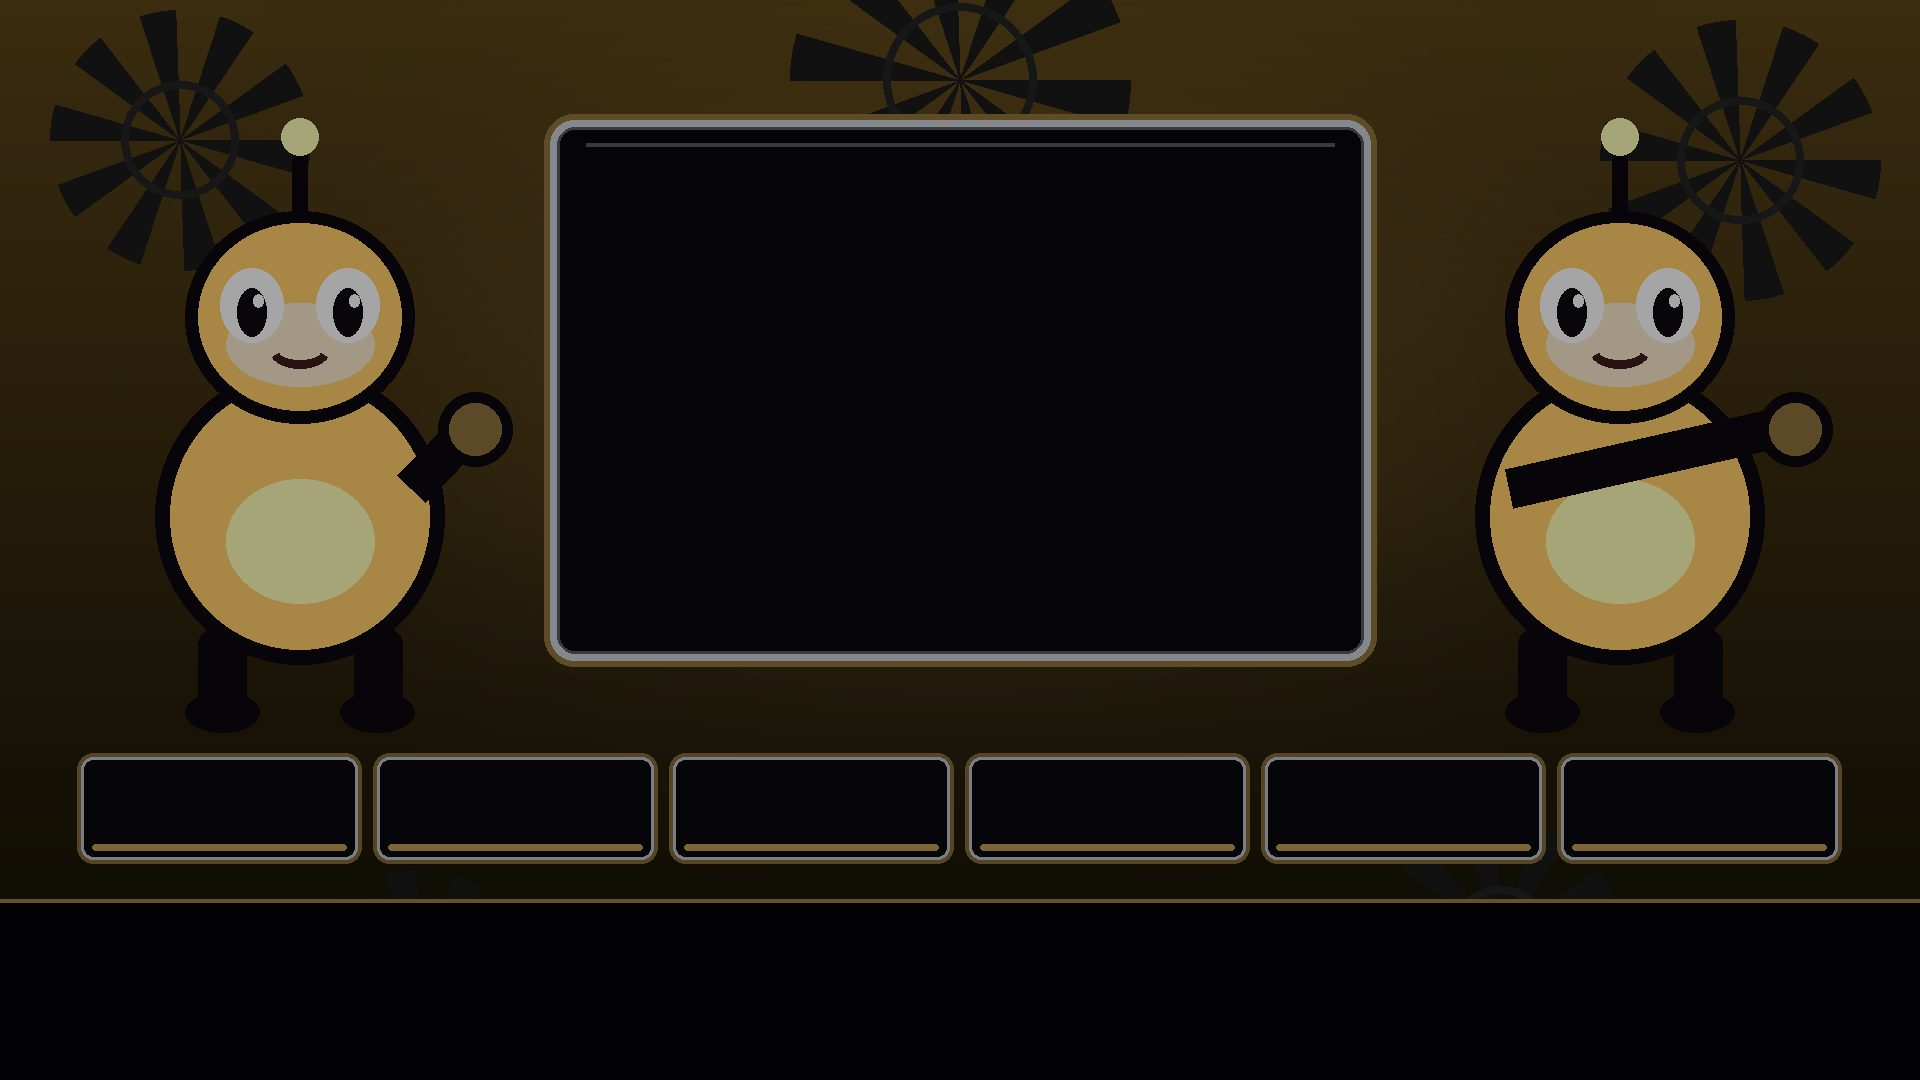
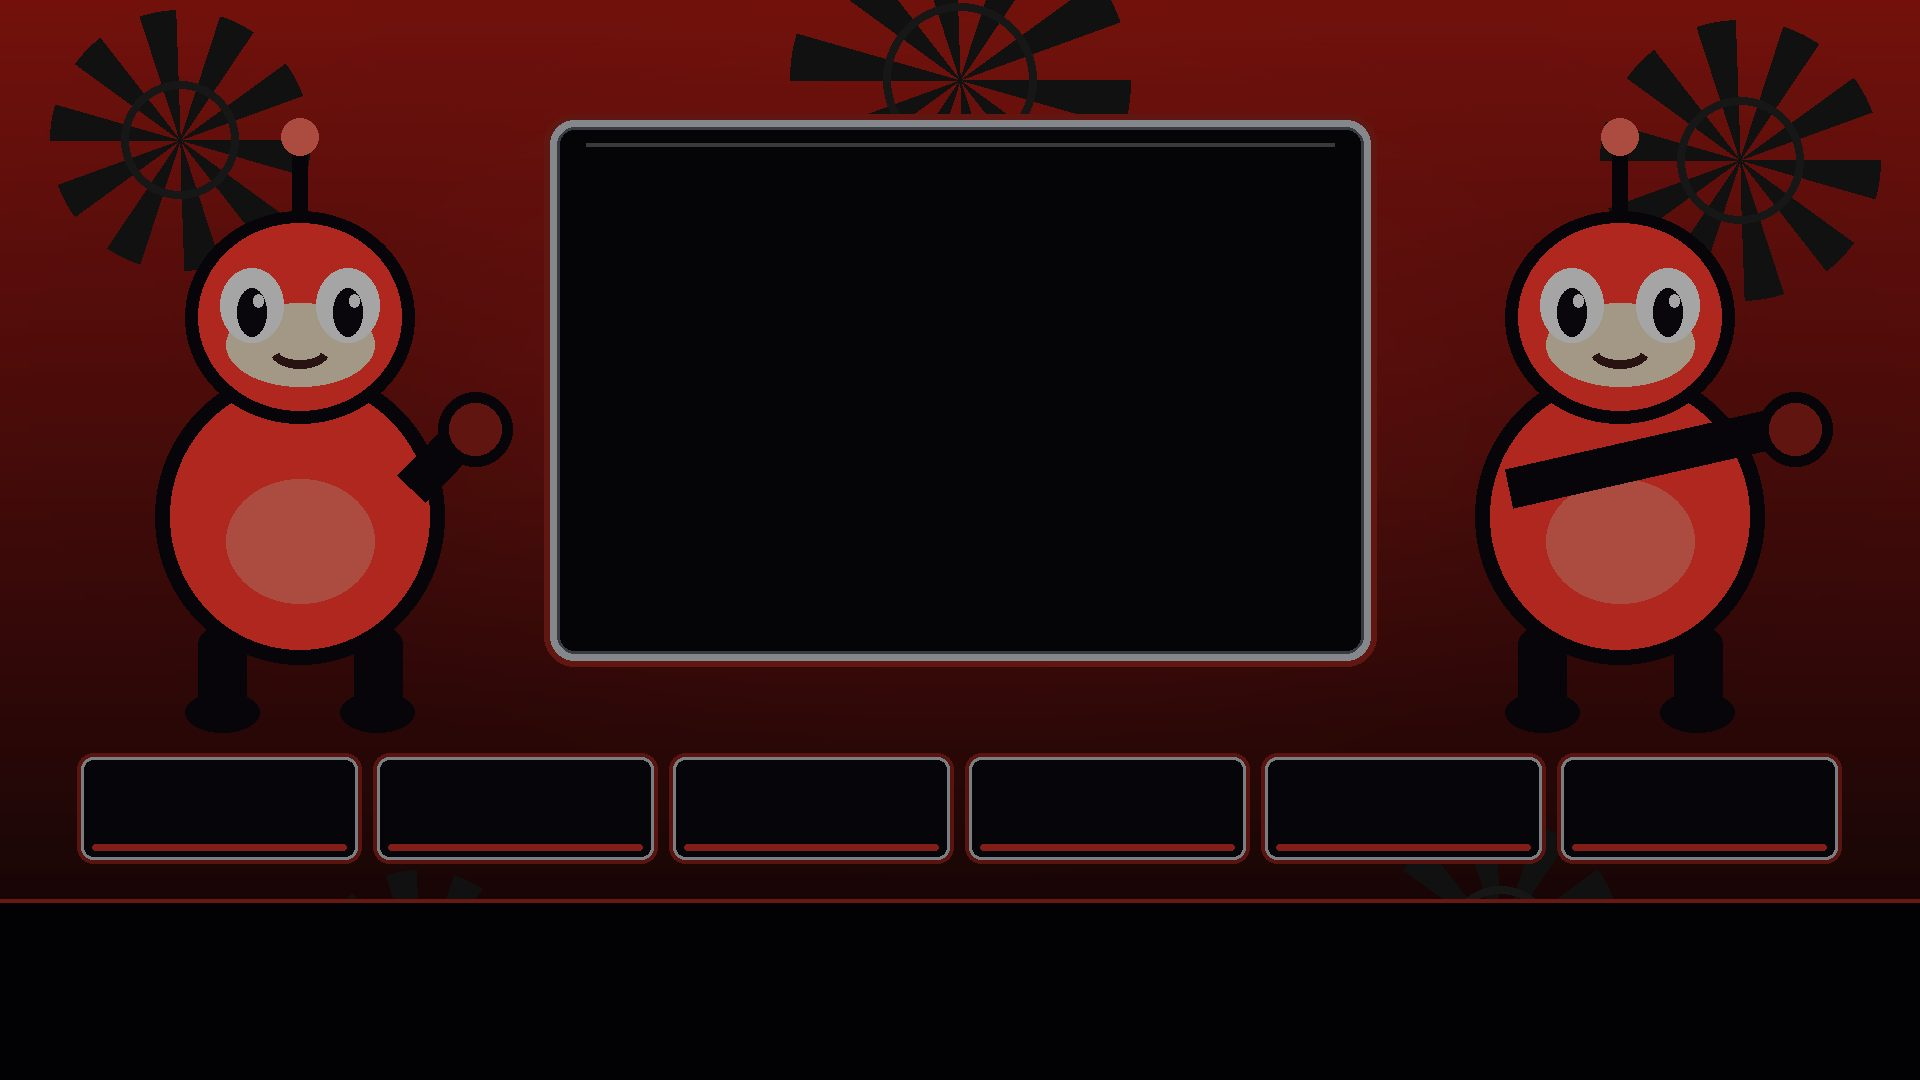
Todas as categorias pedidas: simulador de corrida (OutRun, Daytona, Sega Rally, Cruis'n, Ridge Racer, Hard Drivin'), simulador de tiro (light gun, Time Crisis, House of the Dead, Virtua Cop, Point Blank, Operation Wolf), fliperama e variantes Atari/Sega/Nintendo/PlayStation (276 sistemas) — fundo Fu

diff --git a/android-project/tools/gen_themes.py b/android-project/tools/gen_themes.py
@@ -31,30 +31,42 @@ FAMS = {
     "computer":  ((90, 70, 30), (13, 11, 5), (255, 210, 120)),
     "mugen":     ((120, 20, 80), (11, 3, 11), (255, 100, 200)),
     "openbor":   ((150, 80, 20), (15, 9, 3), (255, 190, 90)),
+    "racing":    ((200, 30, 30), (14, 4, 4), (255, 220, 60)),
+    "shooting":  ((25, 70, 40), (4, 11, 6), (255, 240, 150)),
 }
 
 def fam_for(k):
     if k.startswith("pinball"): return "pinball"
+    if k in ("corrida", "outrun", "daytona", "segarally", "cruisn",
+             "ridgeracer", "harddrivin"): return "racing"
+    if k in ("tiro", "lightgun", "timecrisis", "hotd", "virtuacop",
+             "pointblank", "opwolf"): return "shooting"
     if k in ("mame", "fba", "fbneo", "finalburn", "arcade", "cps1", "cps2", "cps3",
              "zinc", "model1", "model2", "model3", "naomi", "naomi2", "atomiswave",
              "stv", "lindbergh", "daphne", "neogeo", "neogeocd", "neogeopocket",
              "neogeopocketcolor", "ngpc", "taitotypex", "typex", "nesicaxlive",
-             "nesica", "coinops", "pcengine", "turbografx", "turbografx16",
-             "supergrafx", "pcfx"): return "arcade"
+             "nesica", "coinops", "pcengine", "pce", "pcecd", "turbografx",
+             "turbografx16", "tg16", "supergrafx", "pcfx", "fliperama"): return "arcade"
     if k in ("gb", "gameboy", "gbc", "gba"): return "gameboy"
     if k in ("nes", "famicom", "fds"): return "nes"
-    if k in ("snes", "virtualboy"): return "snes"
-    if k == "n64": return "n64"
-    if k in ("nds", "3ds"): return "nds"
-    if k in ("mastersystem", "sms", "megadrive", "genesis", "sega32x", "segacd",
-             "gamegear", "sg1000", "dreamcast", "saturn"): return "sega"
-    if k in ("psx", "ps1", "ps2", "ps3", "ps4", "ps5"): return "sony"
+    if k in ("snes", "sfc", "sufami", "sufamiturbo", "satellaview", "virtualboy"): return "snes"
+    if k == "n64" or k == "n64dd": return "n64"
+    if k in ("nds", "n3ds", "3ds"): return "nds"
+    if k in ("mastersystem", "sms", "megadrive", "genesis", "sega32x", "32x",
+             "segacd", "megacd", "gamegear", "sg1000", "sc3000", "dreamcast",
+             "saturn", "gp32", "gp2x", "pico", "megajet", "wondermega",
+             "teradrive", "sega"): return "sega"
+    if k in ("psx", "ps1", "psxone", "ps2", "ps3", "ps4", "ps5", "playstation",
+             "sony"): return "sony"
     if k in ("psp", "psvita", "vita"): return "psp"
-    if k.startswith("atari") or k == "astrocade": return "atari"
+    if k.startswith("atari") or k == "astrocade" or k == "xegs": return "atari"
     if k in ("xbox", "xbox360", "xbla", "pc", "windows", "winlator", "dos", "pcdos"): return "microsoft"
     if k == "mugen": return "mugen"
     if k == "openbor": return "openbor"
-    return "retroarch" if k == "retroarch" else "computer"
+    if k in ("switch", "switch2", "nsw", "nintendo", "gmaster", "gamepock",
+             "gameandwatch", "pokemini", "ereader"): return "nintendo"
+    if k == "retroarch" or k == "pico8" or k == "tic80": return "retroarch"
+    return "computer"
 
 def outline_poly(d, pts, fill, width=10):
     d.polygon(pts, fill=(12, 10, 16, 255))
@@ -184,19 +196,23 @@ def make(key):
     img.save(p, "JPEG", quality=82, optimize=True, progressive=True)
     return p
 
+def system_keys_from_java():
+    # fonte da verdade: SYSTEM_FOLDERS no FrontendActivity.java
+    import re
+    java = ("/workspace/github__EdsonMFernando__Advmenu-plus-atualizado-/"
+            "android-project/app/src/main/java/com/edsonmfernando/advancemame/"
+            "FrontendActivity.java")
+    src = open(java, encoding="utf-8").read()
+    keys, seen = [], set()
+    for k in re.findall(r'SYSTEM_FOLDERS\.put\("([^"]+)"', src):
+        if k not in seen and k != "hbmame":
+            seen.add(k)
+            keys.append(k)
+    return keys
+
+
 def main():
-    keys = """atari2600 a2600 atari5200 atari7800 atari8bit atarilynx atarijaguar colecovision
-intellivision vectrex mastersystem sms megadrive genesis sega32x segacd gamegear nes
-famicom snes n64 gameboy gb gbc gba nds 3ds psx ps1 ps2 psp psvita vita dreamcast
-saturn neogeo neogeopocket wonderswan wonderswancolor switch switch2 gamecube gc wii
-wiiu virtualboy fds ps3 ps4 ps5 xbox xbox360 xbla sg1000 pcengine turbografx
-turbografx16 supergrafx pcfx neogeocd neogeopocketcolor ngpc 3do megaduck supervision
-gamate pv1000 astrocade openbor mugen teknoparrot taitotypex typex fba fbneo finalburn
-mame cps1 cps2 cps3 zinc model1 model2 model3 naomi naomi2 atomiswave stv lindbergh
-daphne pinball pinballfx pinballfx2 pinballfx3 pinballarcade futurepinball arcade
-nesicaxlive nesica coinops retroarch amiga amigacd32 c64 c128 vic20 amstradcpc cpc msx
-msx2 spectrum zxspectrum zx81 dos pcdos macintosh apple2 atarist x68000 pc88 pc98
-scummvm pc windows winlator""".split()
+    keys = system_keys_from_java()
     seen, n, tot = set(), 0, 0
     for k in keys:
         if k in seen or k == "hbmame":

diff --git a/android-project/app/src/main/java/com/edsonmfernando/advancemame/FrontendActivity.java b/android-project/app/src/main/java/com/edsonmfernando/advancemame/FrontendActivity.java
@@ -374,6 +374,31 @@ public class FrontendActivity extends Activity {
         SYSTEM_FOLDERS.put("megajet", "Mega Jet");
         SYSTEM_FOLDERS.put("wondermega", "Wondermega");
         SYSTEM_FOLDERS.put("teradrive", "Teradrive");
+        SYSTEM_FOLDERS.put("corrida", "Simulador de Corrida (arcade)");
+        SYSTEM_FOLDERS.put("outrun", "OutRun (corrida)");
+        SYSTEM_FOLDERS.put("daytona", "Daytona USA (corrida)");
+        SYSTEM_FOLDERS.put("segarally", "Sega Rally (corrida)");
+        SYSTEM_FOLDERS.put("cruisn", "Cruis'n USA (corrida)");
+        SYSTEM_FOLDERS.put("ridgeracer", "Ridge Racer (corrida)");
+        SYSTEM_FOLDERS.put("harddrivin", "Hard Drivin' (corrida)");
+        SYSTEM_FOLDERS.put("tiro", "Simulador de Tiro (fliperama)");
+        SYSTEM_FOLDERS.put("lightgun", "Pistola (Light Gun)");
+        SYSTEM_FOLDERS.put("timecrisis", "Time Crisis (tiro)");
+        SYSTEM_FOLDERS.put("hotd", "House of the Dead (tiro)");
+        SYSTEM_FOLDERS.put("virtuacop", "Virtua Cop (tiro)");
+        SYSTEM_FOLDERS.put("pointblank", "Point Blank (tiro)");
+        SYSTEM_FOLDERS.put("opwolf", "Operation Wolf (tiro)");
+        SYSTEM_FOLDERS.put("atarixl", "Atari XL/XE");
+        SYSTEM_FOLDERS.put("atari800", "Atari 800");
+        SYSTEM_FOLDERS.put("megacd", "Mega CD");
+        SYSTEM_FOLDERS.put("32x", "Mega Drive 32X");
+        SYSTEM_FOLDERS.put("pce", "PC Engine");
+        SYSTEM_FOLDERS.put("sufamiturbo", "Sufami Turbo");
+        SYSTEM_FOLDERS.put("ereader", "e-Reader");
+        SYSTEM_FOLDERS.put("nsw", "Nintendo Switch");
+        SYSTEM_FOLDERS.put("psxone", "PS One");
+        SYSTEM_FOLDERS.put("playstation", "PlayStation (todos)");
+        SYSTEM_FOLDERS.put("fliperama", "Fliperama (arcade)");
     }
 
     /**

diff --git a/android-project/tools/gen_logos.py b/android-project/tools/gen_logos.py
@@ -61,6 +61,14 @@ EXTRA_FAM = {
     "atari": "atari", "sega": "sega", "nintendo": "nintendo", "sony": "sony",
     "palm": "computer", "wince": "microsoft", "megajet": "sega",
     "wondermega": "sega", "teradrive": "sega",
+    "corrida": "racing", "outrun": "racing", "daytona": "racing",
+    "segarally": "racing", "cruisn": "racing", "ridgeracer": "racing",
+    "harddrivin": "racing", "tiro": "shooting", "lightgun": "shooting",
+    "timecrisis": "shooting", "hotd": "shooting", "virtuacop": "shooting",
+    "pointblank": "shooting", "opwolf": "shooting", "atarixl": "atari",
+    "atari800": "atari", "megacd": "sega", "32x": "sega", "pce": "arcade",
+    "sufamiturbo": "snes", "ereader": "nintendo", "nsw": "nintendo",
+    "psxone": "sony", "playstation": "sony", "fliperama": "arcade",
 }
 
 FAMS.update({
@@ -89,6 +97,14 @@ FIXED = {
     "fba": "fighter", "fbneo": "fighter", "arcade": "arcadeguy",
     "switch": "hero", "switch2": "hero", "wii": "hero", "wiiu": "hero",
     "gamecube": "knight", "gc": "knight", "3ds": "cap", "nds": "cap",
+    "corrida": "racer", "outrun": "racer", "daytona": "racer",
+    "segarally": "racer", "cruisn": "racer", "ridgeracer": "racer",
+    "harddrivin": "racer", "tiro": "marine", "lightgun": "marine",
+    "timecrisis": "marine", "hotd": "marine", "virtuacop": "marine",
+    "pointblank": "marine", "opwolf": "marine", "fliperama": "arcadeguy",
+    "atarixl": "marine", "atari800": "marine", "megacd": "racer",
+    "32x": "racer", "pce": "cap", "sufamiturbo": "hero", "ereader": "cap",
+    "nsw": "hero", "psxone": "cyborg", "playstation": "heroine",
 }
 
 KINDS = [
